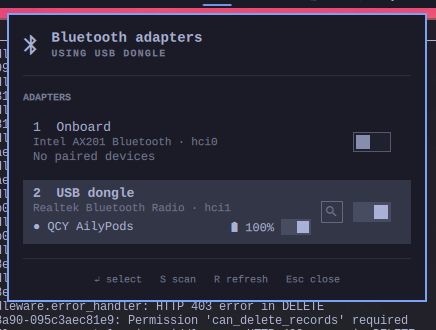
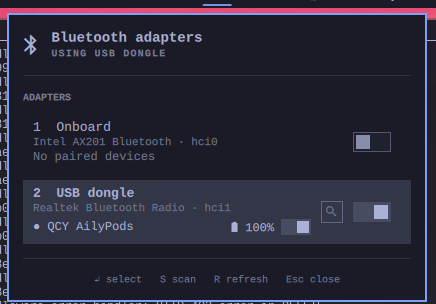
Document every feature in the README and refresh the screenshots
Each feature now has its own section (automatic selection, bar widget, panel,
devices, scan and pair, audio, errors, logs, keyboard), plus a command table,
a troubleshooting guide and the audio dependencies. New real screenshots: the
panel (preview.png), a scan in progress and the bar widget.

diff --git a/README.md b/README.md
@@ -1,100 +1,164 @@
 # Bluetooth Adapter Switch
 
 An [Omarchy](https://omarchy.org/) bar widget for machines with two Bluetooth
-adapters, typically the onboard chip plus a USB dongle. **Exactly one adapter is
-active at a time**, and the plugin switches on its own:
+adapters, typically the onboard chip plus a USB dongle. It keeps **exactly one
+adapter active**, switches on its own when you plug or unplug the dongle, and
+gives you a panel to manage the devices of each adapter: connect, pair, forget,
+see the battery, and have the sound follow the headset.
 
-- plug the dongle in and it becomes the active adapter (the onboard one is turned off);
-- unplug it and the onboard adapter comes back on;
-- at login, if zero or several adapters are on, it settles on one.
+![Adapter panel](preview.png)
 
-Prefer the onboard chip instead? Set `preferred` to `Onboard` (see Settings). A
-manual pick from the panel is kept until the adapters change again.
+## Contents
 
-![Bluetooth Adapter Switch panel](preview.png)
+- [Features](#features)
+- [Install](#install) · [Remove](#remove)
+- [Settings](#settings)
+- [Command line](#command-line)
+- [How it works](#how-it-works)
+- [Troubleshooting](#troubleshooting)
+- [Dependencies](#dependencies)
 
-Click the widget to open a panel that lists every adapter: what it is
-(**Onboard** chip or **USB dongle**), its model, whether it is active, and what
-is paired to it. Each adapter has a switch: turning one on makes it the only adapter in use, and turning the active one off hands over to the other. Pick with the mouse or the keyboard. Hovering an adapter
-warns you which connected devices the switch would drop.
+## Features
+
+### 1. One adapter at a time, chosen automatically
+
+Two active adapters fight over the same devices, so the plugin keeps a single
+one on:
+
+- **Plug the dongle in** and it becomes the active adapter; the onboard chip is
+  turned off.
+- **Unplug it** and the onboard adapter comes back on.
+- **At login**, if zero or several adapters are on, it settles on one.
+- **Anything that turns a second adapter on** (another Bluetooth tool, for
+  example) is corrected on the next read, within a few seconds.
+
+Prefer the onboard chip? Set `preferred` to `Onboard` (see [Settings](#settings)).
+A manual pick from the panel is respected until the set of adapters changes
+again. Plug and unplug are noticed through `rfkill event`, so the reaction is
+immediate rather than waiting for the next poll.
+
+### 2. The bar widget
+
+![Bar widget](docs/bar.png)
+
+The label says which adapter is active: `USB` (a removable dongle), `Onboard`
+(a fixed chip), the raw `hci0`/`hci1` when two adapters are of the same type or
+when `labelMode` is `Adapter id`, `off` when none is on, and `…` while a switch
+is in progress (the icon turns into a spinner too). On a vertical bar only the
+icon is shown. With a single adapter the widget is dimmed and there is nothing
+to switch.
 
 | Action | Result |
 |---|---|
 | Left click | Open the panel (or switch to the next adapter, see `clickAction`) |
-| Scroll / middle click | Make the next adapter the only powered one |
+| Scroll / middle click | Switch to the next adapter |
 | Right click | Go back to the automatic choice (the preferred adapter) |
-| Hover | Lists every adapter with its type and state |
+| Hover | Tooltip: every adapter with its type, `hciN` and state (`●` on, `○` off), the battery of connected devices, and a reminder of the clicks |
 
-Every paired device is listed under its adapter, with its battery level when
-the device reports one (low levels turn red, and connected devices' batteries
-also show in the bar tooltip). Flip the device's switch (or click the line)
-to connect or disconnect, and use the trash button, which appears when you point at the line, to forget
-it: click once,
-then again to confirm. All of these act on **that adapter**, which is why this
-works for a device paired to both adapters or only to the dongle. The stock
-Bluetooth widget talks to the default adapter only, so it cannot see or forget
-what lives on the other one.
+### 3. The adapter panel
 
-To add a new device, press the magnifier on the active adapter (or `S`). Named
-devices in range show up under **Nearby**; the `+` button pairs, trusts and
-connects. Scanning looks over classic Bluetooth by default (see `scanTransport`) and stops after 45 seconds, when you press it again, when you
-switch adapter or when the panel closes.
+Every adapter is a row with its **type** (Onboard / USB dongle), its **model**
+(read from the USB database, for example `Intel AX201 Bluetooth`), its `hciN` and
+the devices paired to it. Each row has a **switch**:
 
-Panel keys: `↑`/`↓` or `j`/`k` move, `Enter` selects, `1`-`9` pick an adapter
-directly, `S` scans for new devices, `R` refreshes, `Esc` closes.
+- turning an adapter **on** makes it the only one in use and turns the other off;
+- turning the **active** one off hands over to the other adapter, so you are
+  never left with nothing;
+- with a single adapter the switch is disabled and says so.
 
-The bar label shows the active adapter (`USB`, `Onboard`) or `off` when none is. After a switch you get a desktop notification,
-and a failed switch is shown in the panel instead of failing silently. With a
-single adapter the widget is dimmed and does nothing.
+Pointing at an adapter that is off shows, in red, which connected devices the
+switch would drop (`Disconnects QCY AilyPods`), so a switch is never a surprise.
+While switching, the switch shows a busy state and the header reads *Switching
+adapter…*.
 
-## How it works
+### 4. Devices: connect, battery, forget
 
-Switching to an adapter powers it on and soft-blocks every other Bluetooth
-adapter with `rfkill`. Plug and unplug are noticed through `rfkill event`, which
-the plugin reads as your own user. Everything runs with your own user's
-permissions: `/dev/rfkill` is writable by the logged-in user through the logind
-ACL, and BlueZ accepts `Powered` changes from an active session. The plugin needs
-no elevated rights, installs no system files and does not touch anything outside
-its own directory (apart from its log, see Logs).
+Paired devices are listed under the adapter they belong to.
 
-Because the block is an rfkill soft block, `systemd-rfkill` restores it at boot,
-so your choice survives a reboot. The target adapter is powered on first and the
-others are only turned off once it is up, so a failed switch never leaves you
-with no adapter, and unplugging the active dongle turns the onboard adapter back
-on.
+- **Connect / disconnect** with the device's switch (or by clicking the line).
+  The switch is disabled on an adapter that is off, with a tooltip saying to
+  switch to it first. A connect that gets no answer is cancelled after 15
+  seconds so the next attempt starts clean.
+- **Battery** appears next to the name (icon and percentage) when the device
+  reports one through BlueZ, turning red and bold at 20% or less. Connected
+  devices' batteries are also listed in the bar tooltip. Many earbuds do not
+  report a level over Bluetooth; in that case nothing is shown rather than a
+  made-up value.
+- **Forget** (the trash button, visible when you point at the line) unpairs the
+  device **on that adapter**. It asks for a second click within four seconds,
+  because unpairing means pairing again from scratch. It works for a device
+  paired to either adapter, including one paired to both.
+- **BLE only** marks a paired entry that has no audio or input profile (see
+  [Troubleshooting](#troubleshooting)). Its switch is disabled, with a tooltip
+  explaining why.
 
-Adapter type comes from sysfs: a USB device flagged `fixed` is reported as
-onboard, a `removable` one as a USB dongle.
+### 5. Scan and pair new devices
 
-The logic lives in [`bt-adapter.sh`](bt-adapter.sh) (`status`, `use <hciN>`,
-`next`, `auto`, `ensure`, `watch`, `forget|connect|disconnect|pair <hciN> <ADDRESS>`,
-`scan <hciN>`, `audio <ADDRESS>`, `log`, and `json` for the full state), which
-you can also run by hand.
+![Scanning](docs/scan.png)
 
-## Keybinding
+Press the magnifier on the active adapter (or `S`) to look for devices. Devices
+in range that announce a real name appear under **Nearby**, strongest signal
+first; the `+` button pairs, trusts and connects in one go.
 
-The panel answers to Omarchy's shell IPC, so you can open it from a Hyprland
-binding:
+- The scan is **classic Bluetooth by default**, which is what headsets and
+  speakers use. Change `scanTransport` to `Low Energy` or `Both` for BLE-only
+  gear such as some keyboards and mice.
+- Audio devices are listed before BLE ones, and BLE entries are tagged `BLE`.
+- Unnamed devices (just a MAC address) are hidden, and at most six are shown.
+- The scan stops after 45 seconds, when you press the magnifier again, when you
+  switch adapter, and when the panel closes.
+- If the device disappears before you click `+` (headsets leave pairing mode
+  after a minute or two), you get a clear message to put it in pairing mode and
+  scan again.
+
+### 6. Sound follows the headset
+
+After a connect or a pair, the plugin waits (up to about eight seconds) for the
+Bluetooth audio output to appear, makes it the default output and moves what is
+playing to it, using Omarchy's own `omarchy-audio-output-set-default`. When the
+headset disconnects, PipeWire falls back to the previous output. If no output
+appears, the log says so.
+
+### 7. Feedback and errors
+
+- A **desktop notification** confirms each switch, connect, pair and forget
+  (turn it off with `notify`). Failures are notified as critical.
+- A **red banner in the panel** says what failed and with which device, for
+  example *Could not connect to QCY AilyPods: no response from the device. Turn
+  it on, bring it close and make sure no other device is connected to it*. It
+  has a dismiss button, disappears by itself after 12 seconds, and points to the
+  log for details.
+- Specific hints cover a device that is out of range, a connection attempt that
+  is still running, a device BlueZ no longer knows, and a Low Energy-only
+  pairing that can never carry audio.
+
+### 8. Logs for diagnosing problems
+
+Every action (switch, connect, disconnect, pair, forget, scan, audio) is written
+to `~/.local/state/omarchy-bluetooth-adapter-switch/plugin.log` with its command,
+outcome and duration. When an action fails, the log also gets a snapshot to
+diagnose it: the rfkill state, the adapters, every BlueZ property of the device
+involved (paired, trusted, connected, UUIDs, signal…) and the latest
+`bluetoothd` messages. Polling is not logged, and the file rotates at 256 KB,
+keeping one previous copy. The widget itself logs to the shell journal.
+
+```bash
+bash ~/.config/omarchy/plugins/io.github.cesarfilho.bluetooth-adapter-switch/bt-adapter.sh log 80
+journalctl -b | grep bt-adapter-switch
+```
+
+### 9. Keyboard and keybinding
+
+In the panel: `↑`/`↓` or `j`/`k` move, `Enter` selects, `1`-`9` pick an adapter
+directly, `S` scans, `R` refreshes, `Tab` moves to the next bar panel and `Esc`
+closes. The panel also answers to Omarchy's shell IPC, so you can bind it to a
+key in Hyprland:
 
 ```bash
 omarchy-shell io.github.cesarfilho.bluetooth-adapter-switch toggle
 ```
 
-## Logs
-
-Every action (switch, connect, disconnect, pair, forget, scan) is written to
-`~/.local/state/omarchy-bluetooth-adapter-switch/plugin.log` with its outcome and
-duration. When an action fails the log also gets a snapshot to diagnose it: the
-rfkill state, the adapters, every BlueZ property of the device involved and the
-latest `bluetoothd` messages. Polling is not logged, and the file rotates at
-256 KB.
-
-```bash
-bash ~/.config/omarchy/plugins/io.github.cesarfilho.bluetooth-adapter-switch/bt-adapter.sh log 80
-```
-
-A failure banner in the panel also points to this file. The widget itself logs
-to the shell journal (`journalctl -b | grep bt-adapter-switch`).
+(`open`, `close`, `show` and `hide` work too.)
 
 ## Install
 
@@ -119,6 +183,7 @@ omarchy plugin remove io.github.cesarfilho.bluetooth-adapter-switch
 ```
 
 If an adapter is still blocked, unblock it first with `rfkill unblock bluetooth`.
+The log in `~/.local/state/omarchy-bluetooth-adapter-switch/` can be deleted.
 
 ## Settings
 
@@ -132,48 +197,80 @@ Omarchy settings panel:
 | `labelMode` | `Type` | `Type` shows USB / Onboard, `Adapter id` shows hci0 / hci1 |
 | `clickAction` | `Open panel` | `Open panel` or `Switch to next` on left click |
 | `scanTransport` | `Classic (headsets, speakers)` | What a scan looks for: `Classic`, `Low Energy` or `Both` |
-| `notify` | `true` | Desktop notification after switching |
+| `notify` | `true` | Desktop notification after each action |
 | `refreshIntervalSec` | `10` | How often the state is re-read (2 to 120); 2 s while the panel is open |
 
-## Things to know
+## Command line
 
-- **Pair headsets and speakers with a classic scan.** The default scan looks
-  over classic BR/EDR, which is what carries audio. A device found over Low
-  Energy can be paired as an LE-only entry with no audio profile; it then lists
-  as paired but never connects ("no response from the device"). If you have one,
-  forget it and pair again from a classic scan. Some earbuds (QCY, for example)
-  even show up twice: an audio identity and a separate "app" identity that only
-  speaks Low Energy. The panel tags entries without an audio or input profile as
-  **BLE only** (paired) or **BLE** (nearby), and lists audio devices first, so you
-  can pair the right one. Use the `Low Energy` or `Both`
-  scan setting for BLE-only gear such as some keyboards and mice.
-- **Sound moves to the headset on connect.** After a connect or pair, the
-  plugin waits for the Bluetooth audio sink to appear, makes it the default
-  output and moves what is playing to it (`bt-adapter.sh audio <ADDRESS>` does
-  the same by hand). When the headset disconnects, PipeWire falls back to the
-  previous output.
-- **Battery only shows when the device reports it.** It comes from BlueZ's
-  `Battery1` interface. Many earbuds and headsets do not publish a level over
-  Bluetooth to Linux, in which case nothing is shown rather than a made-up value.
-- **Paired devices belong to one adapter.** Each adapter keeps its own pairings,
-  so pair your devices again after switching (the same device can be paired to
-  both, and each copy is forgotten separately). Switching away from an adapter
-  disconnects whatever is connected to it.
-- **The stock Bluetooth widget can lag behind.** Quickshell's
-  `Bluetooth.defaultAdapter`, which `omarchy.bluetooth` uses, does not follow this
-  switch. If the onboard adapter is the one you blocked, the stock widget may
-  show "Turned off" while your dongle works fine. This widget always shows the
-  real state.
-- If the onboard adapter should never come back, a udev rule that
-  de-authorizes its USB port is the permanent option. That needs root and is
-  deliberately not automated here.
+Everything the widget does goes through [`bt-adapter.sh`](bt-adapter.sh), which
+you can also run by hand:
+
+| Command | What it does |
+|---|---|
+| `status` | One line per adapter: `hciN\|ADDRESS\|ALIAS\|powered\|blocked` |
+| `json` | Full state as JSON: type, model, paired devices with battery, nearby devices |
+| `use <hciN>` | Make that adapter the only active one |
+| `next` | Make the next adapter the active one |
+| `auto [usb\|onboard]` | Make the preferred adapter the only active one |
+| `ensure [usb\|onboard]` | Like `auto`, but only when zero or several are active |
+| `watch` | Print a line on every adapter plug, unplug or state change |
+| `connect` / `disconnect <hciN> <ADDRESS>` | Connect or disconnect a paired device (connect also moves the sound) |
+| `pair <hciN> <ADDRESS>` | Pair, trust and connect a device |
+| `forget <hciN> <ADDRESS>` | Unpair a device from that adapter |
+| `scan <hciN> [seconds] [bredr\|le\|auto]` | Look for devices until stopped (default 45 s, classic) |
+| `audio <ADDRESS>` | Make a connected device the default audio output |
+| `log [lines]` | Show the end of the plugin log |
+
+## How it works
+
+Switching to an adapter powers it on and soft-blocks every other Bluetooth
+adapter with `rfkill`. Everything runs with your own user's permissions:
+`/dev/rfkill` is writable by the logged-in user through the logind ACL, and
+BlueZ accepts property changes from an active session. The plugin needs no
+elevated rights, installs no system files and does not touch anything outside
+its own directory (apart from its log).
+
+Because the block is an rfkill soft block, `systemd-rfkill` restores it at boot,
+so your choice survives a reboot. The target adapter is powered on first, with
+retries because BlueZ takes a moment to accept `Powered` after an unblock, and
+the others are only turned off once it is up. A failed switch therefore never
+leaves you with no adapter.
+
+Adapter type comes from sysfs: a USB device flagged `fixed` is reported as
+onboard, a `removable` one as a USB dongle. Device actions call BlueZ directly
+(`Device1.Connect`, `Adapter1.RemoveDevice`, …) on the adapter that owns the
+device. That is deliberate: `bluetoothctl` and the stock Bluetooth widget only
+address the default adapter, so they cannot see or forget a pairing that lives on
+the other one. Scanning keeps a `bluetoothctl` session open on the chosen adapter,
+because BlueZ stops a discovery when the process that asked for it exits.
+
+## Troubleshooting
+
+- **A headset is paired but will not connect** (*no response*, or
+  `le-connection-abort-by-local` in the log). It was probably paired over Low
+  Energy, which leaves an entry with no audio profile. Some earbuds (QCY, for
+  example) even show up twice: an audio identity and a separate "app" identity
+  that only speaks Low Energy. Forget the entry tagged **BLE only**, put the
+  headset in pairing mode and scan again with the default classic scan.
+- **Connected, but the sound still comes out of the speakers.** The plugin moves
+  the sound for you on connect. If it did not, run `bt-adapter.sh audio
+  <ADDRESS>` and check the log for *no sink appeared* (the headset may be on a
+  call profile).
+- **Two adapters are on.** Something else turned the second one on (the stock
+  Bluetooth widget unblocks every adapter when you act on a device through it).
+  The plugin notices and puts it back to one within a few seconds; use the
+  panel for device actions to avoid it.
+- **The widget does not reflect an update.** Run `omarchy restart shell`.
+- **No battery shown.** The device does not report one over Bluetooth.
+- **Something failed and the banner is gone.** Read the log, see
+  [Logs](#8-logs-for-diagnosing-problems).
 
 ## Dependencies
 
-All are present on a standard Omarchy install: `bluez` (BlueZ over D-Bus),
-`bluez-utils` (`bluetoothctl`, used for scanning), `util-linux` (`rfkill`),
-`systemd` (`busctl`, `udevadm`), `libnotify` (`notify-send`), `jq` and
-`bash`.
+All are present on a standard Omarchy install: `bluez` and `bluez-utils`
+(BlueZ over D-Bus, `bluetoothctl` for scanning), `util-linux` (`rfkill`),
+`systemd` (`busctl`, `udevadm`), `libnotify` (`notify-send`), `jq`, `bash`, and
+`pipewire-pulse` (`pactl`) and `wireplumber` (`wpctl`) for the audio output.
 
 ## License
 
